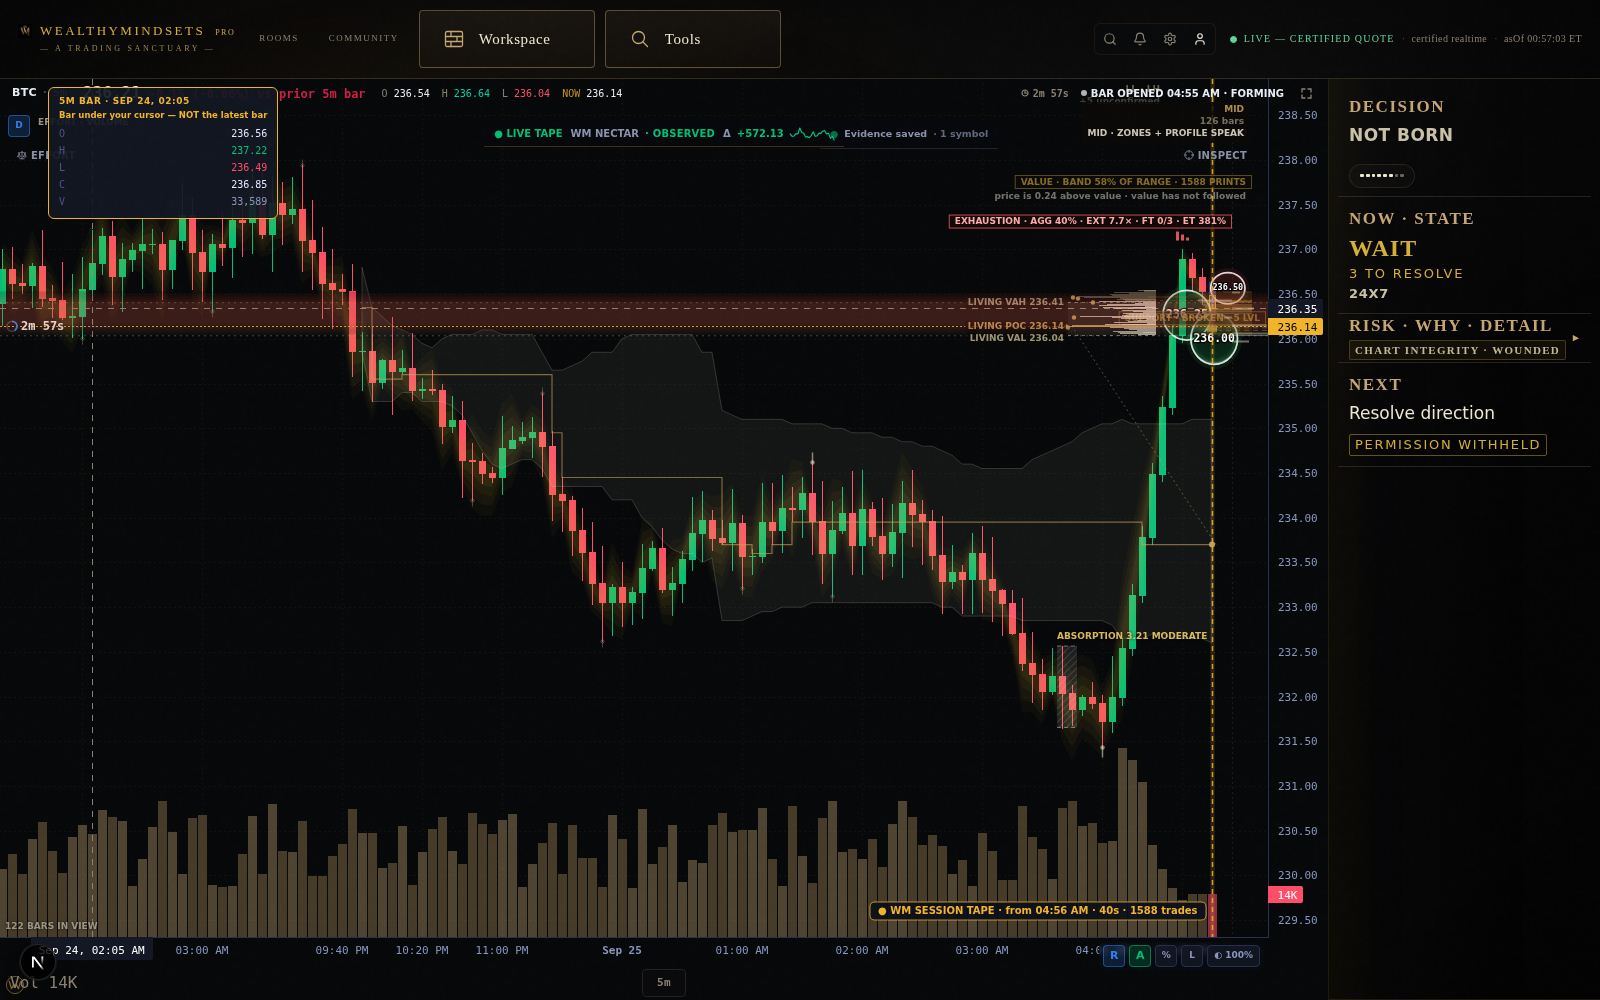
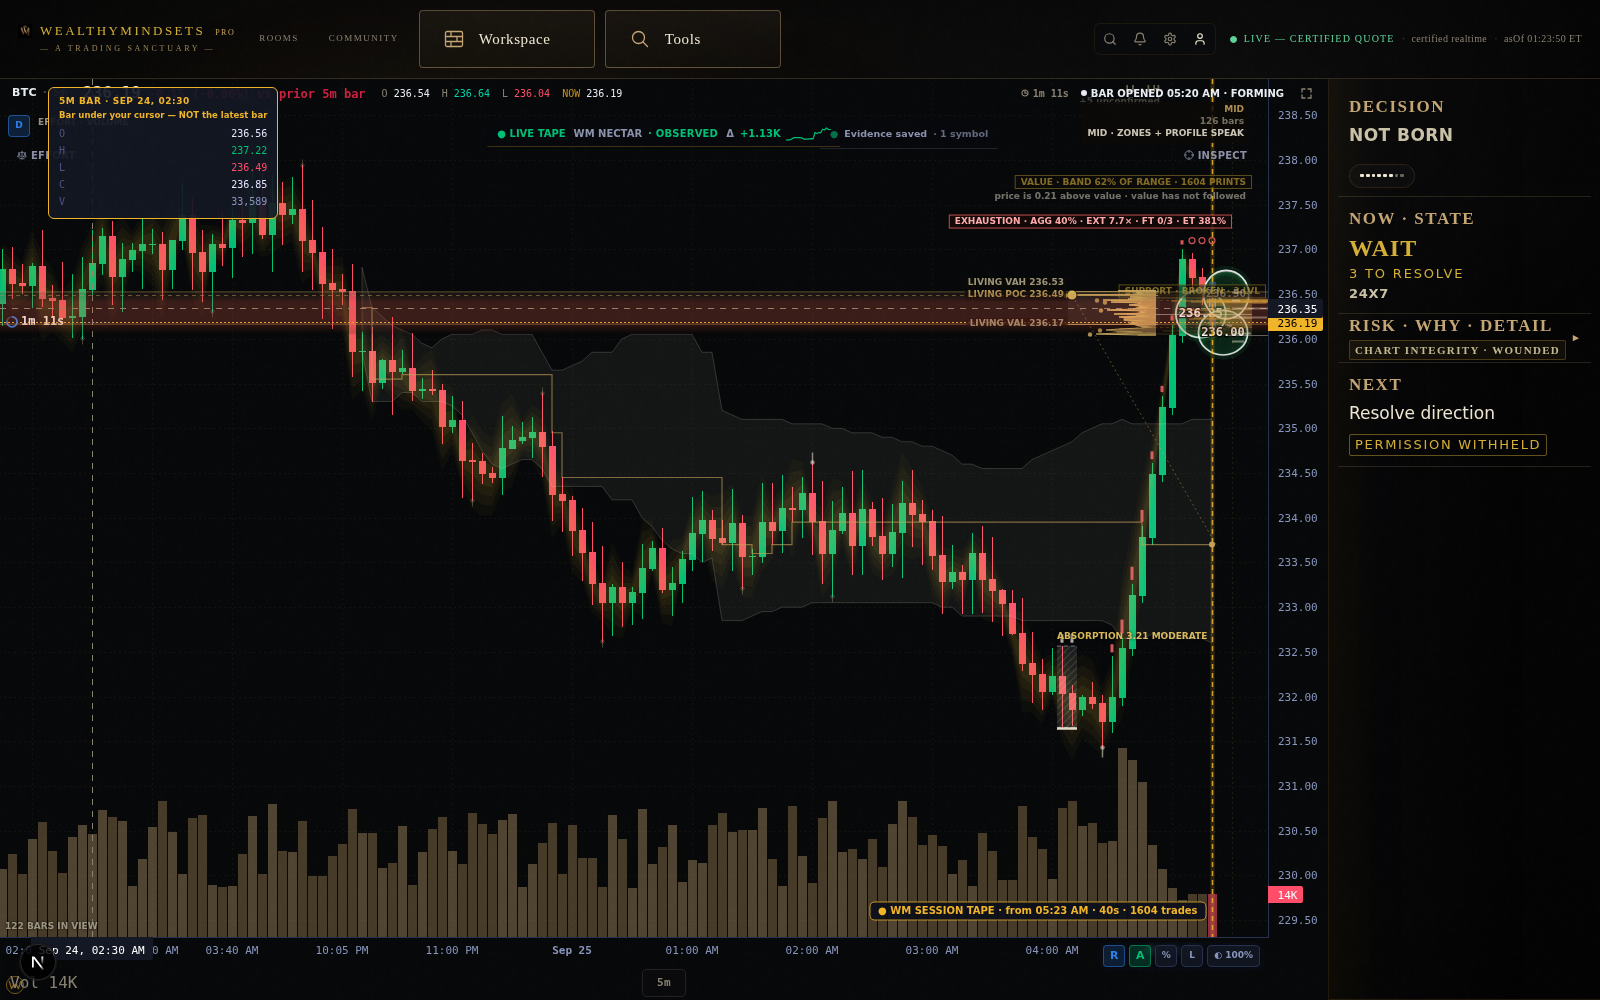
Garden 12 · stacked imbalance as slabs grown from its bars (canon F06A)
Canon F06A 'Order Flow Lives on Price' (Drive Visual Canon) shows a stack as
a run of horizontal slabs grown out of the bars that built it, each slab's
length its row's dominance. The cells were equal boxes; each is now a slab
from the formation bars whose length follows the row's weight (house gold —
§9 sentinel: no side graded in hue). Side-by-side: garden12/SIDE_F06A_stack.png.
PARTIAL: the fixture tape covers only the live bar, so the multi-bar slab run
the plate shows needs a real session tape (Webull) to be proved.

Claude-Session: https://claude.ai/code/session_01Gntm2WzCaW5uQMS2aMojoZ

diff --git a/src/components/chart/MainChart.tsx b/src/components/chart/MainChart.tsx
@@ -1363,7 +1363,10 @@ function stackCellHeight(ys: readonly (unknown | null)[], bandH: number): number
   return v.length >= 2 ? Math.max(3, v[1] - v[0]) : Math.max(3, bandH);
 }
 function paintStackCell(ctx: CanvasRenderingContext2D, a: { x0: number; x1: number }, y: number, h: number, weight: number) {
-  const w = Math.max(2, a.x1 - a.x0);
+  // Canon F06A (Order Flow Lives on Price): stacked imbalance is a run of
+  // SLABS grown out of the bars that built it, each slab's length its row's
+  // dominance — a small horizontal histogram on price, not equal boxes.
+  const w = Math.max(a.x1 - a.x0, 18 + 70 * weight);
   ctx.fillStyle = `rgba(212,175,55,${(0.16 + 0.5 * weight).toFixed(3)})`;
   ctx.fillRect(a.x0, y - h / 2 + 0.5, w, h - 1);
   ctx.strokeStyle = "rgba(212,175,55,0.9)"; ctx.lineWidth = 1;
